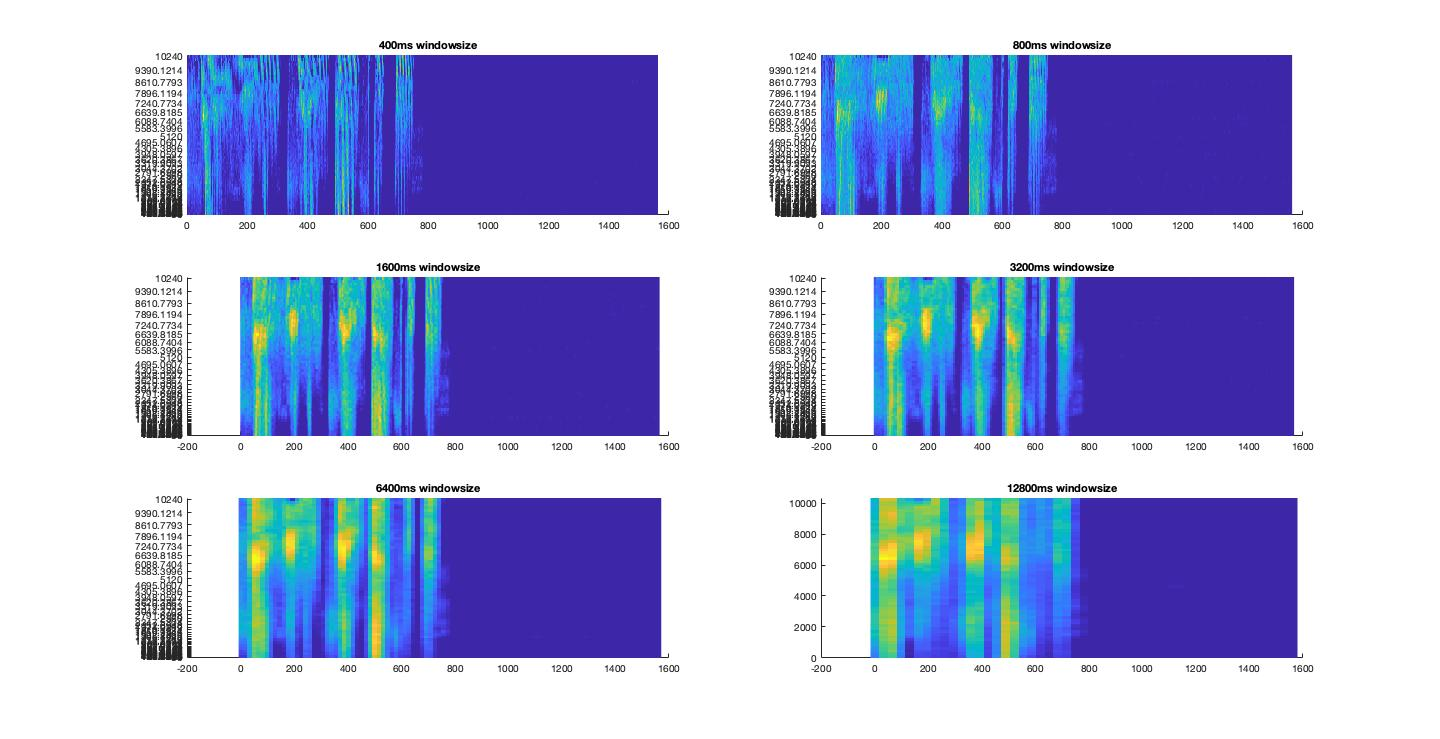
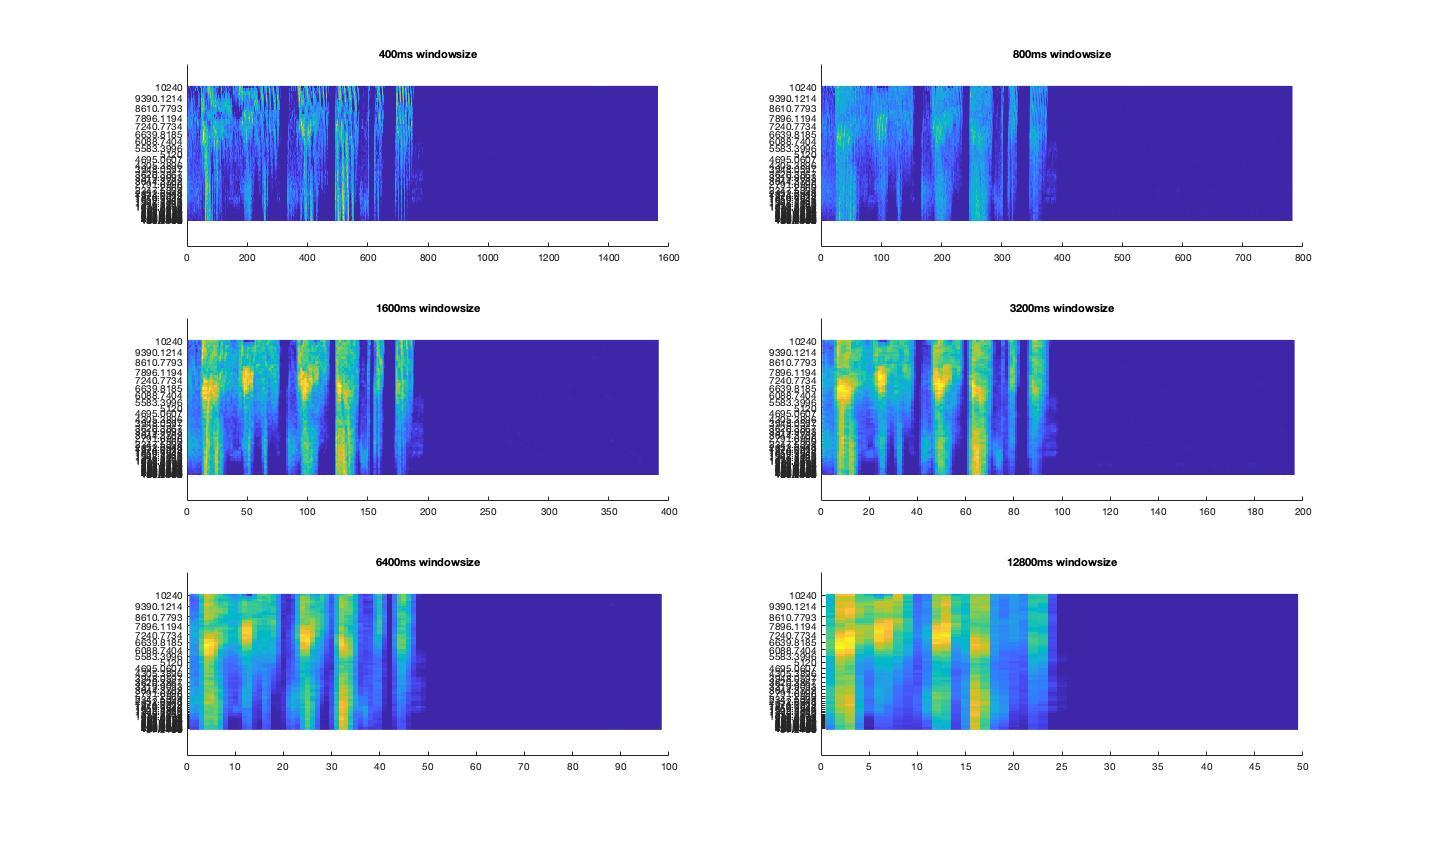
Release 1.0

diff --git a/assignment1/ZilanyCarney-JASAcode-2009/assignment1_3.m b/assignment1/ZilanyCarney-JASAcode-2009/assignment1_3.m
@@ -45,11 +45,14 @@ parfor i=2:length(frequencyBag)
     experimentData(i,:) = psth;
 end
 toc;
+%%
 figure;
 
 imagesc('XData', [1,length(psth)], 'YData', [frequencyBag(1), frequencyBag(length(frequencyBag))], 'CData', flipud(experimentData))
+ytick = 80*2.^(0:1/8:7);
+set(gca,'YTick',ytick);
 hold on;
-
+%%
 tic;
 % ANF model 1
 parfor i=1:length(frequencyBag1)
@@ -74,6 +77,7 @@ t = (0:L-1)*T;
 L1 = length(experimentData1(1,:));
 
 for i=1:length(frequencyBag1)
+    col = rand(1,3);
     for j=1:length(indices)
         if indices(j)+fftWindow-1 > L1
             Y = fft(experimentData1(i,indices(j):end));   
@@ -88,10 +92,12 @@ for i=1:length(frequencyBag1)
         P1(2:end-1) = 2*P1(2:end-1);
         f = Fs*(0:(L/2))/L;
         [argval, argmax] = max(P1);
-        if j > 1
-            plot((indices(j-1) + indices(j))/2, f(argmax),'*')
-        else
-            plot((indices(j))/2, f(argmax),'*')
+        if f(argmax) < 20000 && f(argmax) ~= 0
+            if j > 1
+                plot((indices(j-1) + indices(j))/2, f(argmax),'*','color',col)
+            else
+                plot((indices(j))/2, f(argmax),'*','color',col)
+            end
         end
         
     end
